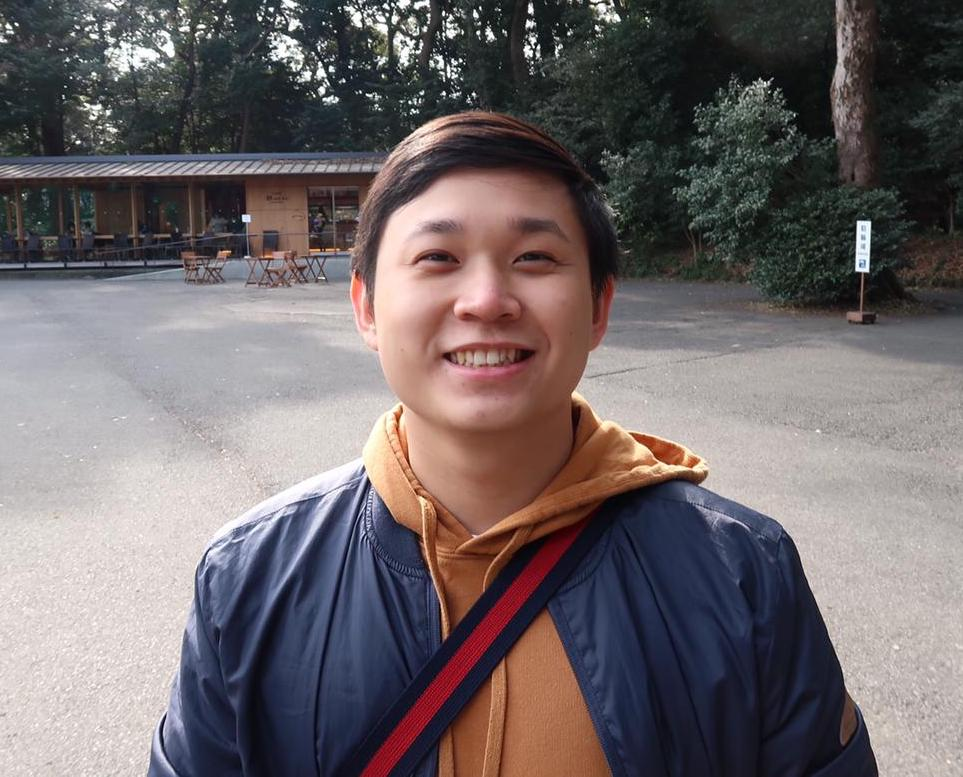
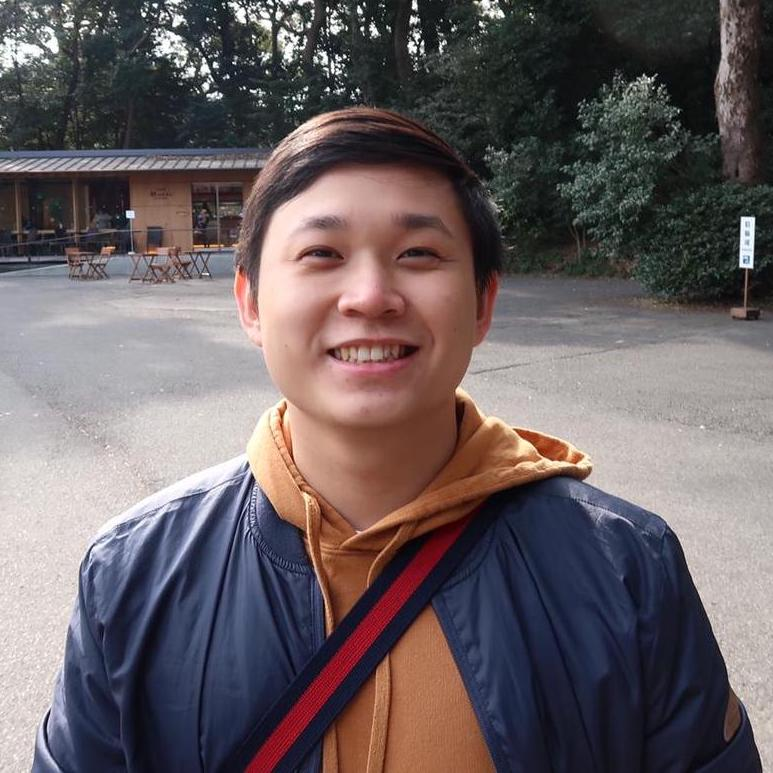
img update

diff --git a/personal-website-react/src/components/AboutCard/AboutCard.jsx b/personal-website-react/src/components/AboutCard/AboutCard.jsx
@@ -3,22 +3,24 @@ import portrait from "../../assets/portrait.jpg";
 import styles from "./AboutCard.module.scss";
 
 const AboutCard = () => {
-  const portraitStyle = {
-    backgroundImage: `url(${portrait})`,
-    borderRadius: "10rem",
-    width: "20rem",
-    height: "20rem",
-    backgroundPosition: "center",
-    backgroundSize: "cover",
-    backgroundRepeat: "no-repeat",
-    boxShadow: "2px 2px 10px #f8f9fa",
-  };
+  // const portraitStyle = {
+  //   backgroundImage: `url(${portrait})`,
+  //   borderRadius: "10rem",
+  //   width: "20rem",
+  //   height: "20rem",
+  //   backgroundPosition: "center",
+  //   backgroundSize: "cover",
+  //   backgroundRepeat: "no-repeat",
+  //   boxShadow: "2px 2px 10px #f8f9fa",
+  // };
 
   return (
     <div className={styles.AboutCard}>
       <h1>About me</h1>
       <div className={styles.AboutCard_Info}>
-        <div style={portraitStyle}></div>
+        <div className={styles.AboutCard_Image}>
+          <img src={portrait} />
+        </div>
         <div className={styles.AboutCard_Info_Para}>
           <p>
             I'm Paul, a full-stack developer based in Sydney, Australia. I love

diff --git a/personal-website-react/src/components/AboutCard/AboutCard.module.scss b/personal-website-react/src/components/AboutCard/AboutCard.module.scss
@@ -1,4 +1,14 @@
 .AboutCard {
+  &_Image {
+    padding-top: 1rem;
+    & > img {
+      border-radius: 50%;
+      width: 20rem;
+      height: auto;
+
+      box-shadow: 2px 2px 10px #f8f9fa;
+    }
+  }
   & > h1 {
     font-size: 2rem;
   }
